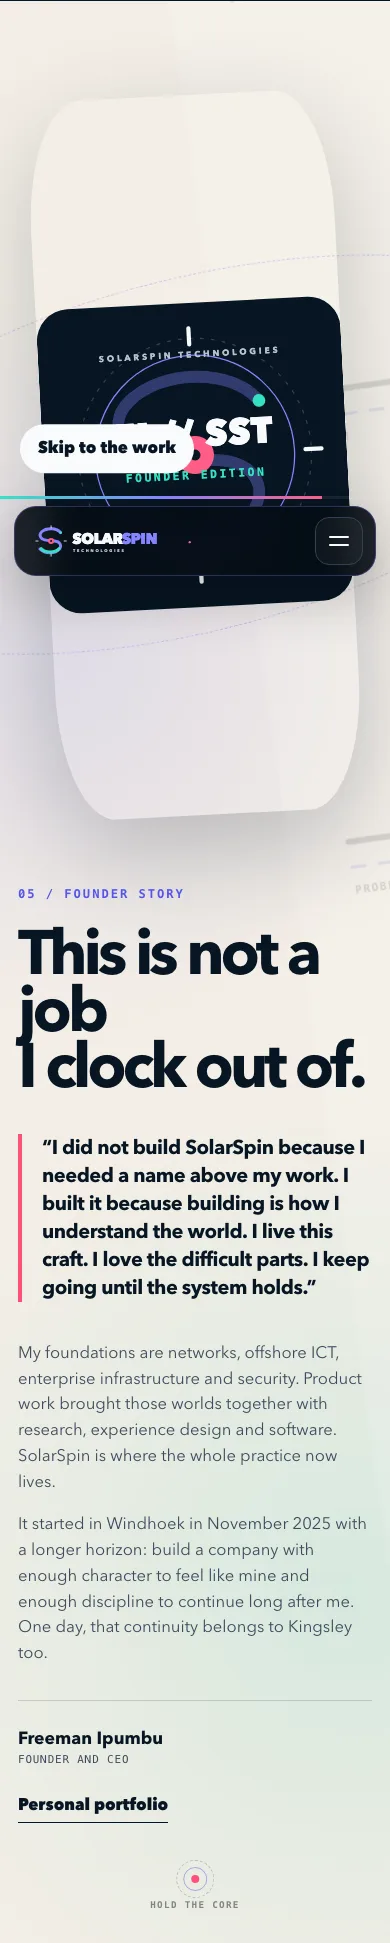
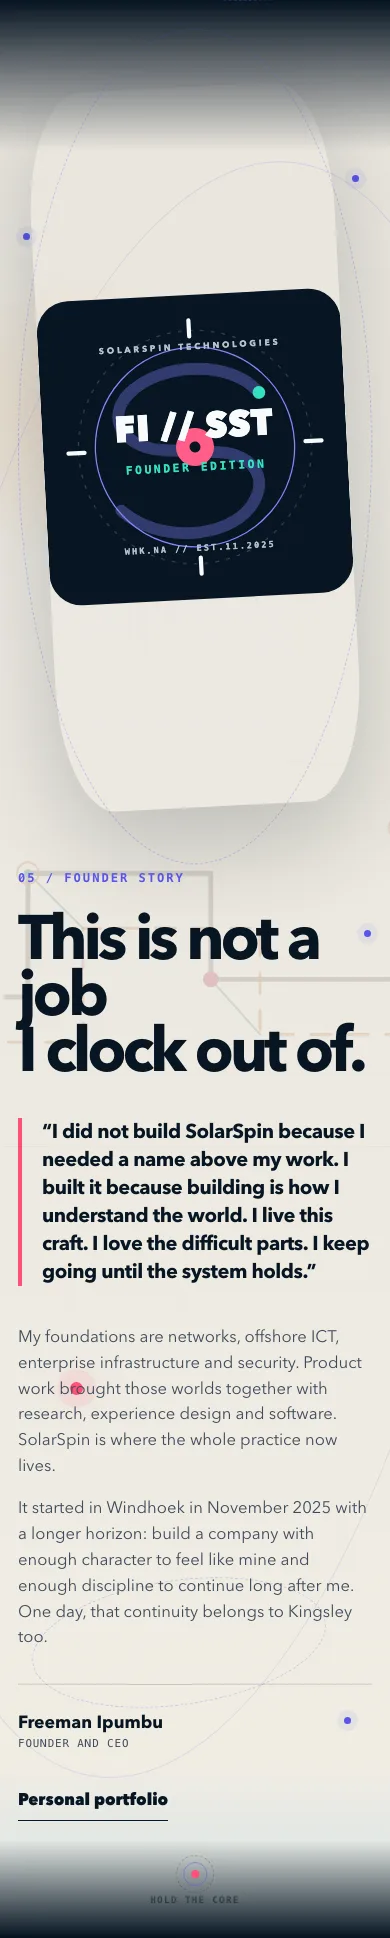
Document cinematic Field Atlas release

diff --git a/README.md b/README.md
@@ -38,7 +38,7 @@ The result is a responsive, dependency-free digital experience built around one 
 | Public work | 27 carefully bounded project stories across four smart orbits |
 | Experience model | Interactive system map, project observatory, method explorer and guided contact pathway |
 | Runtime | Static HTML, CSS and JavaScript with no framework or runtime dependency |
-| QA widths | 1440, 768, 390 and 320 pixels |
+| QA coverage | Six responsive profiles from 1440 desktop to 320 mobile, including touch and 844 × 390 landscape |
 | Live site | [solarspin-namibia.pages.dev](https://solarspin-namibia.pages.dev/) |
 
 ## The central idea
@@ -71,6 +71,27 @@ The brand system combines:
 Large editorial type carries the conviction. Monospaced labels add the precision of instrumentation. Fine orbital lines, small signals and restrained glows create depth without turning the interface into decorative science fiction.
 
 The full token logic is documented in [the visual system notes](docs/visual-system.md).
+
+## The cinematic Field Atlas pass
+
+The latest enhancement makes the chapters feel like parts of one Windhoek-built field instrument while leaving the semantic story intact. The old all-purpose system-lines artwork carried its own opaque paint surface. The visible opaque panels were removed from the cinematic surfaces in favour of transparent, surface-specific linework: a cool night treatment for dark chapters, a dune treatment for the founder chapter and Namib contour lines for the light Project Observatory. Each surface can now keep its own gradient, paper tone and depth without a foreign rectangle sitting behind the content.
+
+![The Project Observatory using its Owned Universe terrain band, Namib contours and active rail atmosphere](assets/screenshots/field-atlas.webp)
+
+The Field Atlas layer is connected to the interface rather than running as a separate visual show:
+
+- each project orbit carries its own Namib terrain band and accent, moving from pulse pink through field mint and orbit violet to dune amber
+- architecture selections move the section's signal origin and colour; method steps move the light and packet; pathway choices retune the field and send one short transmission
+- the founder chapter uses its own warm transparent linework instead of reusing a light panel on a light surface
+- chapter animation starts only while that section is in view, and project animation is narrowed again to the current orbit
+- decorative layers are paint-contained, pointer-inert and removed from forced-colors mode; coarse-pointer layouts also shed selected blur effects
+- reduced-motion mode stops the continuous field animations instead of merely slowing them down
+
+![SolarSpin footer with a live Windhoek CAT clock, coordinates and transmission status](assets/screenshots/windhoek-transmission.webp)
+
+The footer closes the journey with a live Windhoek transmission: current Central Africa Time, the WHK.NA coordinate marker and a restrained system-status signal. Its clock is informative but not required for navigation or contact.
+
+Verification grew with the visual system. The automated record now covers six responsive profiles: 1440 desktop, 768 tablet, touch mobile at 390, 360 and 320 pixels, and an 844 × 390 touch landscape run. Separate checks confirm horizontal rail movement without blocking vertical touch scrolling, zero continuing infinite animations under reduced motion, visible essentials and zero overflow in forced-colors mode, and the full 27-project/four-orbit experience with fallback navigation and email when JavaScript is unavailable.
 
 ## The interface behaves like the company
 
@@ -122,6 +143,8 @@ Motion gives the experience character, but it is never required to reach the con
 - `prefers-reduced-motion` removes the canvas and reveal dependency
 - essential content remains available when JavaScript is disabled
 - animation pauses when the document is not visible
+- chapter animation remains paused until its own section is in view
+- only the current Project Observatory orbit runs its ambient loops
 
 [Read the interaction and architecture notes](docs/interaction-architecture.md).
 
@@ -134,9 +157,9 @@ Motion gives the experience character, but it is never required to reach the con
   </tr>
 </table>
 
-The mobile experience is recomposed around a vertical rhythm. The hero separates the promise from the orbital control. Navigation becomes an intentional orbit menu. Touch targets expand, supporting copy gets more room, and the founder chapter keeps its editorial impact at 390 and 320 pixels.
+The mobile experience is recomposed around a vertical rhythm. The hero separates the promise from the orbital control. Navigation becomes an intentional orbit menu. Touch targets expand, supporting copy gets more room, and the founder chapter keeps its editorial impact at 390, 360 and 320 pixels as well as short landscape viewports.
 
-The result was checked for horizontal overflow at every supported QA width. The 320-pixel run reported zero overflow.
+The result was checked for horizontal overflow across all six responsive profiles. Every recorded run, including 320-pixel mobile and 844 × 390 landscape, reported zero overflow.
 
 ## Accessibility and resilience
 
@@ -147,9 +170,10 @@ The release includes:
 - high-contrast `:focus-visible` treatment
 - semantic buttons for interactive controls
 - `aria-pressed`, `aria-selected`, `aria-expanded` and named navigation regions
-- live status text for orbit, architecture, project-rail position, method and pathway changes
+- live status text for hero orbit, architecture, method and pathway changes, plus visible project-rail position
 - Escape-key support for menus and the founder dialog
 - reduced-motion handling
+- forced-colors handling that removes non-essential scenery and preserves the core chapters
 - meaningful image alternatives and hidden decorative imagery
 - a JavaScript-free shortcut route and visible essential content
 - a custom 404 page and explicit metadata files
@@ -187,12 +211,15 @@ That small architecture keeps the company experience portable and easy to hand o
 | Local assets | Passed |
 | Console and page errors | None in the recorded QA run |
 | Missing images | None in the recorded QA run |
-| Horizontal overflow | Zero at 1440, 768, 390 and 320 pixels |
+| Responsive profiles | Six passed: 1440, 768, 390, 360, 320 and 844 × 390 landscape |
+| Horizontal overflow | Zero in all six responsive profiles, forced-colors mode and no-JavaScript mode |
 | Mobile navigation | Passed |
-| Project Observatory | 27 cards, four orbits, deep links and rail controls passed |
+| Touch and Project Observatory | 27 cards, four orbits, deep links, rail controls, horizontal touch movement and vertical page scrolling passed |
 | Interactive readouts | Passed |
-| Reduced-motion mode | Essential content visible, canvas disabled |
-| JavaScript-disabled mode | Essential content and fallback navigation visible |
+| Performance guardrails | 976 DOM nodes, at most eight backdrop filters and 2,124,942 initial transfer bytes in the recorded run |
+| Reduced-motion mode | Essential content visible, canvas disabled and zero infinite animations continuing |
+| Forced-colors mode | Essential content visible with zero horizontal overflow |
+| JavaScript-disabled mode | 27 projects and four orbits visible, with fallback navigation and direct email |
 | Custom 404 | Passed |
 | Production homepage | Publicly reachable |
 
@@ -231,6 +258,8 @@ This repository is deliberately separate from the private production repository.
 - [`assets/experience-system.svg`](assets/experience-system.svg) explains the experience architecture.
 - [`assets/design-language.svg`](assets/design-language.svg) records the colour and visual roles.
 - [`assets/screenshots`](assets/screenshots) contains selected, compressed QA evidence.
+- [`assets/screenshots/field-atlas.webp`](assets/screenshots/field-atlas.webp) records the new orbit terrain treatment.
+- [`assets/screenshots/windhoek-transmission.webp`](assets/screenshots/windhoek-transmission.webp) records the live-location footer treatment.
 - [`docs/visual-system.md`](docs/visual-system.md) documents the design system.
 - [`docs/interaction-architecture.md`](docs/interaction-architecture.md) explains progressive interaction and technical choices.
 - [`docs/accessibility-and-qa.md`](docs/accessibility-and-qa.md) records accessibility and verification scope.

diff --git a/docs/accessibility-and-qa.md b/docs/accessibility-and-qa.md
@@ -2,30 +2,37 @@
 
 ## Coverage
 
-The release was exercised at four principal widths:
+The cinematic Field Atlas release was exercised through six responsive profiles:
 
-| Profile | Width | Purpose |
-| --- | ---: | --- |
-| Desktop | 1440 px | Full navigation, wide compositions and pointer interactions |
-| Tablet | 768 px | Mid-width transitions and project layout |
-| Mobile | 390 px | Primary mobile composition and touch interactions |
-| Minimum mobile | 320 px | Narrow-screen resilience and overflow control |
+| Profile | Viewport | Input | Purpose |
+| --- | ---: | --- | --- |
+| Desktop | 1440 × 1000 | Fine pointer | Full navigation, wide compositions and pointer interactions |
+| Tablet | 768 × 1024 | Fine pointer | Mid-width transitions and project layout |
+| Mobile | 390 × 844 | Touch and coarse pointer | Primary mobile composition, menu and project rails |
+| Compact mobile | 360 × 800 | Touch and coarse pointer | Intermediate handset resilience |
+| Minimum mobile | 320 × 740 | Touch and coarse pointer | Narrow-screen resilience and overflow control |
+| Mobile landscape | 844 × 390 | Touch and coarse pointer | Short-height navigation, content and rail behaviour |
 
-The automated run also exercised reduced-motion mode, JavaScript-disabled mode and the custom 404 page.
+The automated run also exercised three separate resilience modes at 390 × 844: reduced motion, forced colors and JavaScript disabled. The custom 404 page and public metadata files were checked separately.
 
 ## Recorded results
 
 - exactly one primary page heading
 - 27 public project cards present across four semantic orbits
-- zero horizontal overflow at 320 pixels in the recorded report
+- zero horizontal overflow in all six responsive profiles
+- touch project rails moved horizontally while vertical page scrolling remained available
 - all inspected images complete with natural dimensions
 - no nameless buttons
 - no blank external links missing a relationship declaration
-- no essential content hidden in reduced-motion mode
-- canvas disabled in reduced-motion mode
-- essential content visible without JavaScript
-- visible fallback navigation without JavaScript
-- direct email fallback available without JavaScript
+- no essential content hidden, no canvas and zero continuing infinite animations in reduced-motion mode
+- essential content visible with zero horizontal overflow in forced-colors mode
+- all 27 projects and four project orbits visible without JavaScript
+- visible fallback navigation and direct email available without JavaScript
+- 976 DOM nodes across the responsive profiles
+- at most eight active backdrop filters, below the ceiling of 10
+- 2,124,942 initial transfer bytes, below the 4 MiB ceiling
+- at most nine continuing infinite animations in a standard profile, below the ceiling of 12
+- no decorative Field Atlas layer accepted pointer input
 
 ## Interaction checks
 
@@ -34,9 +41,11 @@ The automated run also exercised reduced-motion mode, JavaScript-disabled mode a
 - hero orbit changes
 - architecture-node changes
 - project-orbit navigation and deep links
-- project-rail arrow controls, keyboard movement and live position readouts
+- project-rail arrow controls, keyboard movement and visible position readouts
+- project-rail horizontal movement and retained vertical page scrolling on every touch profile
 - method step activation and keyboard navigation
 - contact pathway updates
+- interaction-driven architecture, method and pathway atmosphere state
 - founder dialog open and close paths
 - local asset resolution
 - console and page errors
@@ -58,7 +67,15 @@ Interactive controls are native buttons or links. Focus receives a clear mint ou
 
 ### Motion
 
-Reduced-motion preferences remove the hero canvas and reveal gating. The same content remains present and readable.
+Reduced-motion preferences remove the hero canvas and reveal gating. They also stop the Field Atlas orbit, packet, signal, radar and badge loops. The recorded reduced-motion run reported zero continuing infinite animations, with the same content present and readable.
+
+### Forced colors
+
+Decorative atmospheres, terrain horizons, founder scenery and pathway transmissions are removed under forced colors. Essential panels use system colours and borders. The recorded run kept the hero, work, founder and pathway headings visible with zero horizontal overflow.
+
+### Performance and pointer isolation
+
+Ambient loops begin only when their own section is live. Project loops are limited again to the current orbit. Decorative layers are clipped to their chapters, use paint containment where appropriate and expose `pointer-events: none`, so they cannot block controls or scrolling.
 
 ### Images
 
@@ -66,6 +83,6 @@ Content imagery carries descriptive alternative text. Decorative fields, lines a
 
 ## Honest boundary
 
-These checks support the quality of this release. They do not constitute independent WCAG certification, assistive-technology coverage across every browser, a formal penetration test or a production performance guarantee.
+These checks support the quality of this release. They do not constitute independent WCAG certification, assistive-technology coverage across every browser, a formal penetration test or a production performance guarantee. The transfer and animation figures are recorded local-run diagnostics, not field-performance measurements.
 
 Before any major content expansion, SolarSpin should repeat keyboard testing, screen-reader spot checks, contrast verification and performance measurement against the final production payload.

diff --git a/docs/interaction-architecture.md b/docs/interaction-architecture.md
@@ -26,7 +26,7 @@ Pointer-capable devices receive a restrained tilt driven by local cursor positio
 
 ### Project Observatory
 
-Twenty-seven public-safe project stories are organised into four semantic orbits. The sticky orbit navigator deep-links to each chapter and follows the visitor's position without taking over the browser wheel. Every chapter exposes a native horizontal rail with scroll snapping, previous and next controls, a live position readout, and Left, Right, Home and End keyboard support. The complete inventory remains present in semantic HTML when JavaScript is unavailable.
+Twenty-seven public-safe project stories are organised into four semantic orbits. The sticky orbit navigator deep-links to each chapter and follows the visitor's position without taking over the browser wheel. Every chapter exposes a native horizontal rail with scroll snapping, previous and next controls, a visible position readout, and Left, Right, Home and End keyboard support. The complete inventory remains present in semantic HTML when JavaScript is unavailable.
 
 ### Method rail
 
@@ -39,6 +39,37 @@ Visitors select the kind of problem they are carrying. The interface then change
 ### Founder note
 
 The legacy seal uses the native dialog model where supported. It can be closed by its named control, Escape or a click outside the content panel.
+
+### Cinematic Field Atlas
+
+The Field Atlas is a progressive visual layer over the same semantic sections. Transparent night, dune and Namib-contour assets replace the former opaque system-lines panel, so each chapter keeps its native material surface.
+
+The atmosphere responds to meaningful state changes:
+
+- architecture-node selection moves the signal origin and changes its colour
+- method-step selection moves the light, packet position and active accent
+- pathway selection retunes the field and triggers a short, one-shot transmission
+- the Project Observatory gives each orbit a specific terrain accent and highlights the card nearest the rail's snap position
+- the founder linework drifts only while the founder chapter is active and motion is permitted
+
+These visual responses mirror information already present in text and control state. They do not create a second route to essential content.
+
+### Windhoek transmission
+
+The footer displays a live `Africa/Windhoek` clock in Central Africa Time beside the WHK.NA coordinate marker and system status. The initial placeholder remains understandable before JavaScript runs, and the clock does not gate any footer link or contact path.
+
+## Animation and performance guardrails
+
+An intersection observer gives each cinematic chapter a local live state. Ambient loops are paused by default, start only while their section is in view and, in the Project Observatory, narrow further to the current orbit. Decorative fields use paint containment, clip their overflow and never accept pointer input.
+
+Input and preference boundaries reduce the effect again:
+
+- coarse pointers remove selected backdrop filters while preserving readable solid surfaces
+- reduced motion disables the canvas, reveal gating and all continuing infinite animation
+- forced-colors mode removes decorative atmospheres and gives essential panels system borders and colours
+- no-JavaScript mode keeps the content, project inventory, fallback navigation and direct email route
+
+The QA harness enforces ceilings of fewer than 1,100 DOM nodes, no more than 10 backdrop filters, less than 4 MiB of initial transferred resources and no more than 12 simultaneous infinite animations. The latest recorded desktop run stayed inside each ceiling at 976 nodes, eight backdrop filters, 2,124,942 bytes and nine infinite animations.
 
 ## Runtime
 
@@ -53,7 +84,8 @@ index.html
     ├── app.js
     │     ├── navigation state
     │     ├── component readouts
-    │     ├── project-observatory and pathway logic
+    │     ├── project-observatory, atmosphere and pathway logic
+    │     ├── Windhoek transmission time
     │     └── decorative motion
     │
     └── local assets

diff --git a/docs/visual-system.md b/docs/visual-system.md
@@ -40,12 +40,26 @@ Corners are soft enough to feel approachable, but never so soft that the experie
 Depth comes from layered fields rather than heavy drop shadows:
 
 - transparent panels over deep backgrounds
-- subtle grid and system-line overlays
+- subtle grid, system-line and Namib-contour overlays
 - low-opacity radial light
 - thin borders that become brighter when active
 - scale and perspective used only on capable pointer devices
 
 The founder chapter changes material completely. Paper, dune and ink move the story from public system to personal record.
+
+## Surface-specific field assets
+
+The cinematic Field Atlas pass removed the visible opaque, all-purpose system-lines panel from the enhanced surfaces. Its background fill made one piece of artwork behave like a painted rectangle when it crossed from dark space into paper and dune chapters. The legacy artwork still exists, but it is no longer painted on the enhanced surfaces.
+
+The linework is now separated into three transparent material roles:
+
+| Surface | Field treatment | Purpose |
+| --- | --- | --- |
+| Night | Cool silver, orbit and mint system lines | Sits directly over the architecture, method and footer atmospheres without covering their gradients |
+| Dune | Warm ink, clay and field lines | Belongs to the founder chapter's paper and dune material |
+| Namib terrain | Transparent contour lines and sparse field markers | Gives the Project Observatory a Namibia-specific landscape rhythm |
+
+The four Project Observatory orbits reuse the Namib contours inside distinct terrain bands. Owned Universe is keyed to pulse pink, Command and Operations to field mint, Digital Experiences to orbit violet, and Research and Build Records to dune amber. The shared contour grammar keeps the atlas coherent while the accents preserve chapter identity.
 
 ## Logo use
 
@@ -61,3 +75,5 @@ SolarSpin motion uses two curves:
 - a slightly elastic settle for controls that should feel alive
 
 Continuous animation is reserved for atmosphere and orbital meaning. Content movement is short and settles quickly. Reduced-motion users receive the same hierarchy without the field or reveal dependency.
+
+Ambient motion is also section-scoped. Orbits, packets, signals and related loops remain paused until their chapter enters the live viewport state. Inside the Project Observatory, only the current orbit runs its decorative loops. This keeps the cinematic layer local to the visitor's attention instead of animating the whole document at once.

diff --git a/docs/publication-boundary.md b/docs/publication-boundary.md
@@ -27,7 +27,7 @@ SolarSpin's website is a public company experience, but its production repositor
 
 ## Project claims
 
-The screenshots record the October 2026 release. The live site can continue to evolve after this case study is published.
+The screenshots record the October 2026 release, including the cinematic Field Atlas enhancement and its Windhoek transmission footer. The live site can continue to evolve after this case study is published.
 
 References to accessibility describe implementation decisions and an automated QA run. They are not a claim of formal certification.
 
